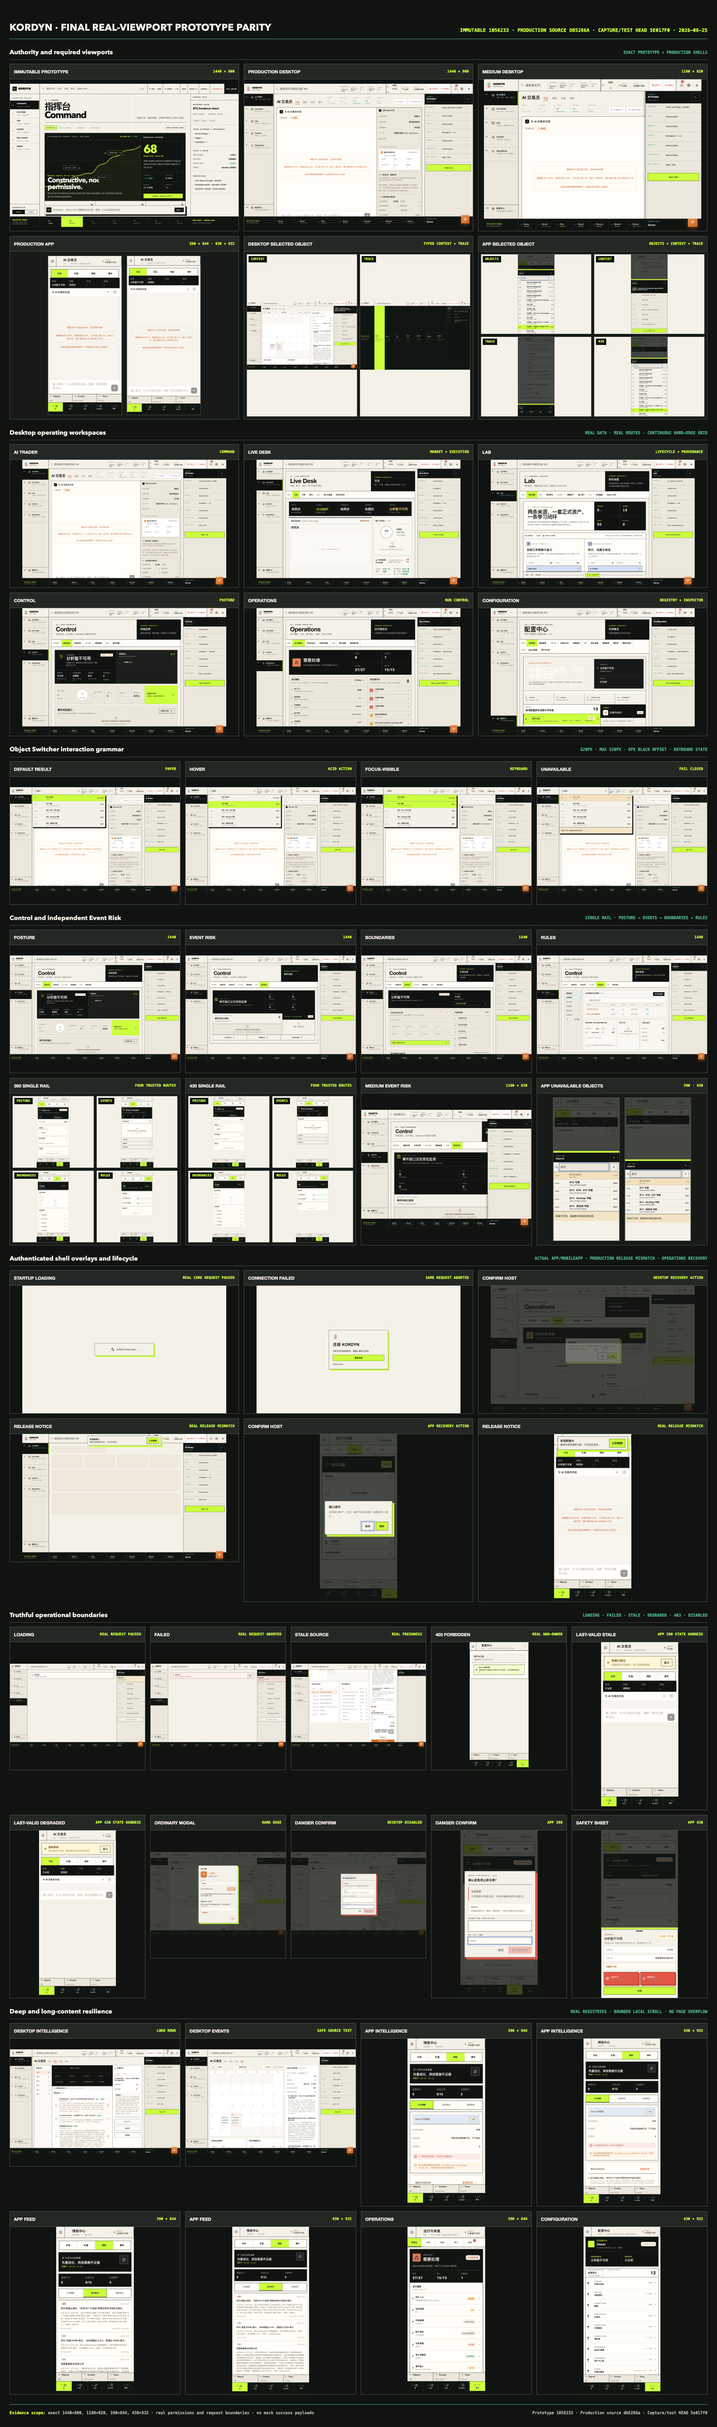
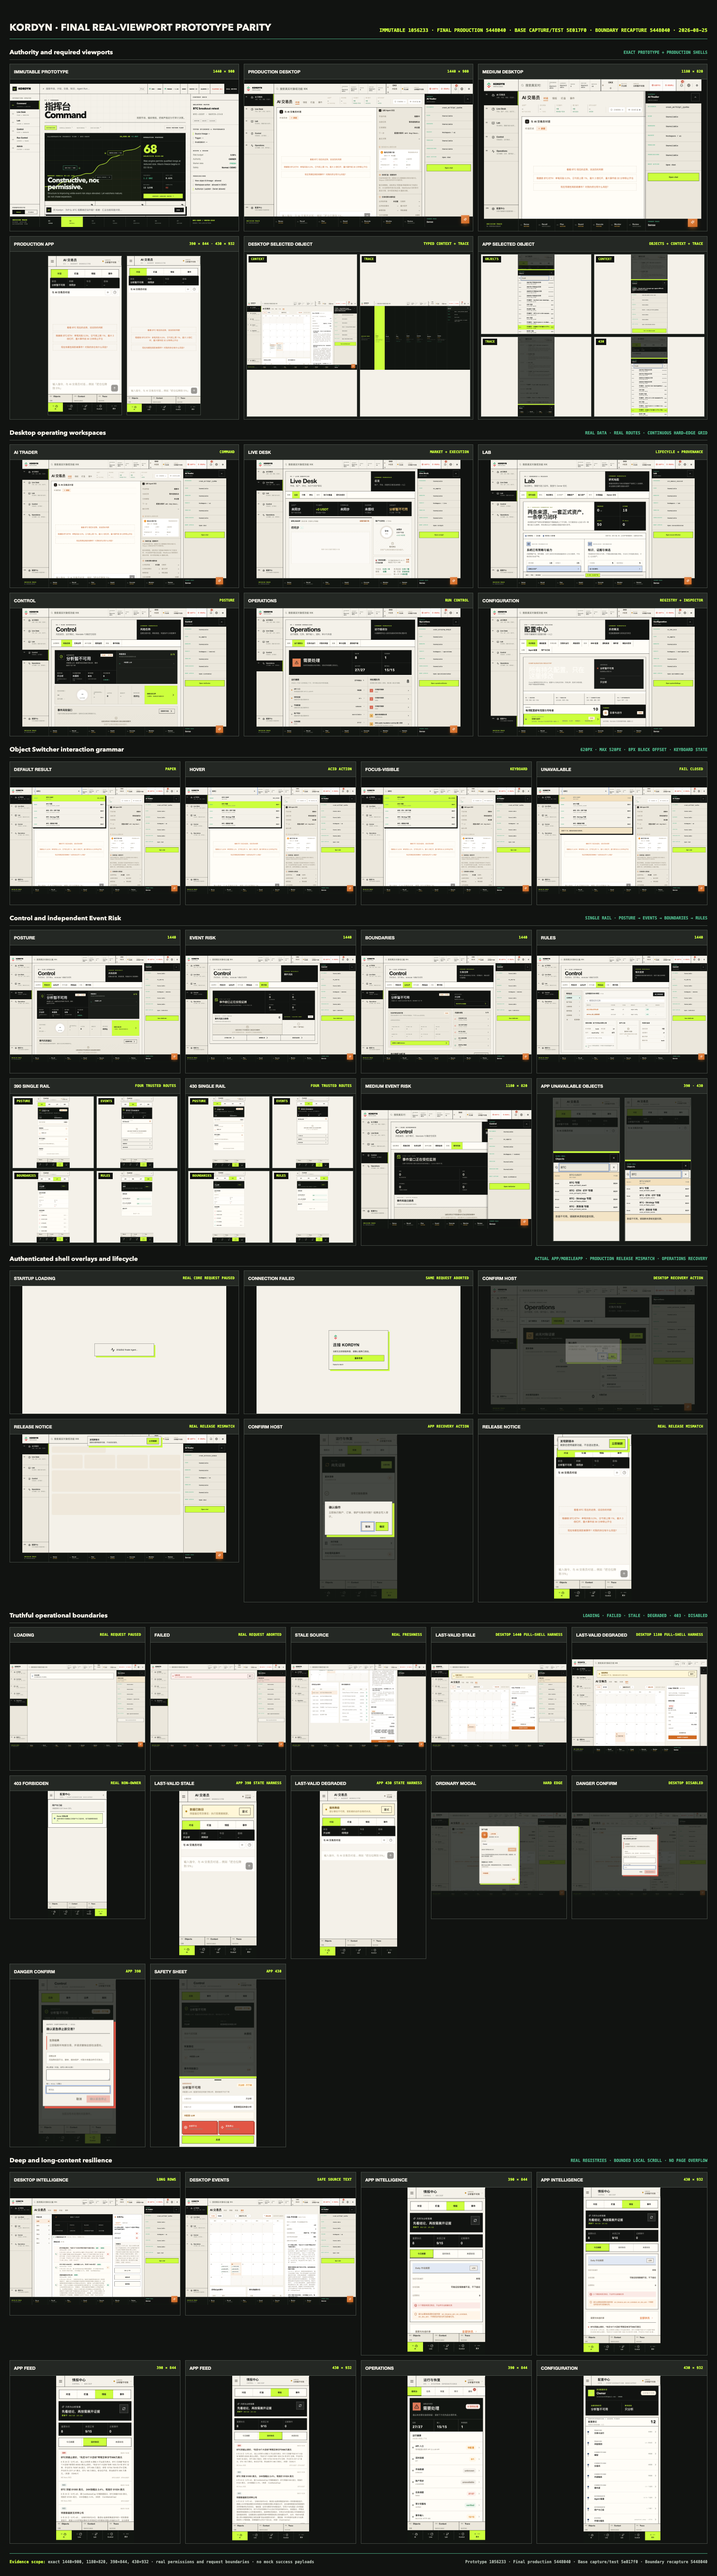
docs: refresh desktop boundary evidence

diff --git a/.impeccable/review/parity-contact-sheet.html b/.impeccable/review/parity-contact-sheet.html
@@ -37,7 +37,7 @@
 <body>
   <header>
     <h1>KORDYN · FINAL REAL-VIEWPORT PROTOTYPE PARITY</h1>
-    <p>Immutable 1056233 · Production source DB5286A · Capture/test HEAD 5E017F0 · 2026-08-25</p>
+    <p>Immutable 1056233 · Final production 5448040 · Base capture/test 5E017F0 · Boundary recapture 5448040 · 2026-08-25</p>
   </header>
 
   <section>
@@ -106,6 +106,8 @@
       <figure class="h360"><figcaption>Loading <span>real request paused</span></figcaption><img src="desktop-real-loading.png" alt="Real loading boundary from paused Operations request"></figure>
       <figure class="h360"><figcaption>Failed <span>real request aborted</span></figcaption><img src="desktop-real-failed.png" alt="Real failed boundary from aborted Operations request"></figure>
       <figure class="h360"><figcaption>Stale source <span>real freshness</span></figcaption><img src="desktop-real-stale-source.png" alt="Real AI Events stale source health"></figure>
+      <figure class="h360"><figcaption>Last-valid stale <span>Desktop 1440 full-shell harness</span></figcaption><img src="desktop-last-valid-stale.png" alt="Production Desktop full-shell stale state with complete warning retry and inert last-valid workspace"></figure>
+      <figure class="h360"><figcaption>Last-valid degraded <span>Desktop 1180 full-shell harness</span></figcaption><img src="desktop-last-valid-degraded.png" alt="Production Desktop full-shell degraded state with complete warning retry and inert last-valid workspace"></figure>
       <figure class="h360"><figcaption>403 forbidden <span>real non-Owner</span></figcaption><img src="mobile-390-real-forbidden.png" alt="Real APP Owner-required forbidden gate"></figure>
       <figure class="h460"><figcaption>Last-valid stale <span>APP 390 state harness</span></figcaption><img src="mobile-390-last-valid-stale.png" alt="Production MobileApp stale component state preserving inert last-valid truth"></figure>
       <figure class="h460"><figcaption>Last-valid degraded <span>APP 430 state harness</span></figcaption><img src="mobile-430-last-valid-degraded.png" alt="Production MobileApp degraded component state preserving inert last-valid truth"></figure>
@@ -132,7 +134,7 @@
 
   <footer>
     <span><strong>Evidence scope:</strong> exact 1440×900, 1180×820, 390×844, 430×932 · real permissions and request boundaries · no mock success payloads</span>
-    <span>Prototype 1056233 · Production source db5286a · Capture/test HEAD 5e017f0</span>
+    <span>Prototype 1056233 · Final production 5448040 · Base capture/test 5e017f0 · Boundary recapture 5448040</span>
   </footer>
 </body>
 </html>
